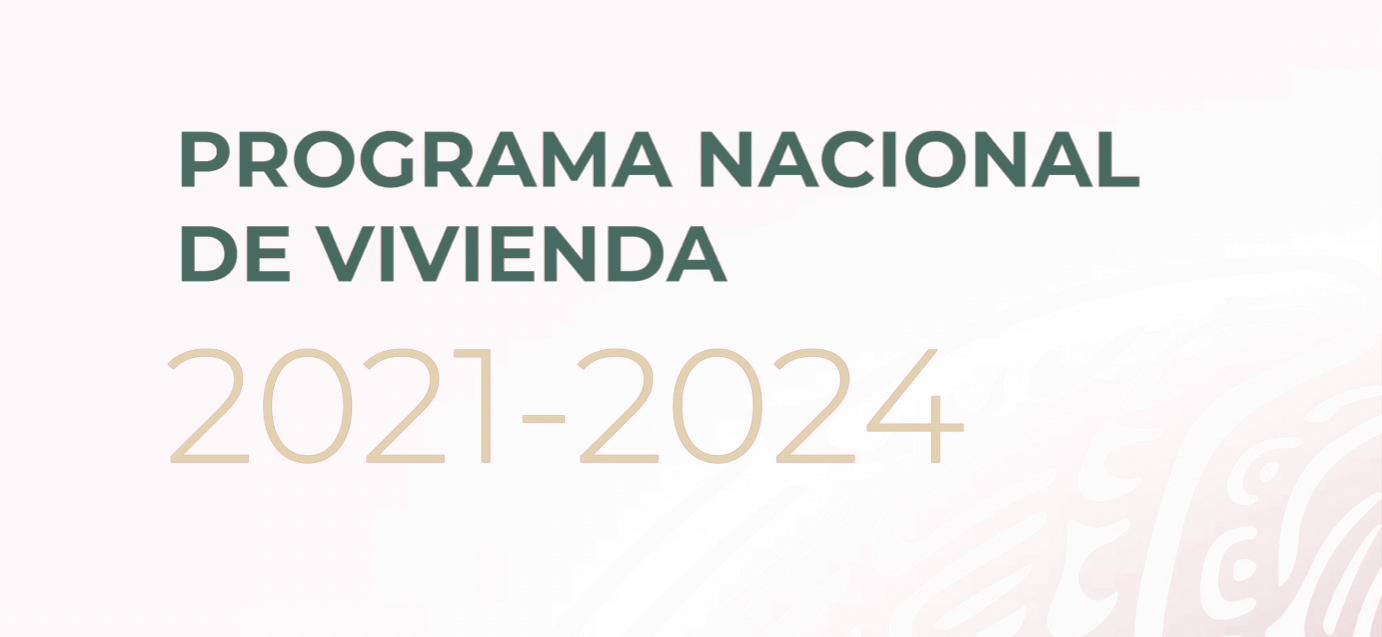
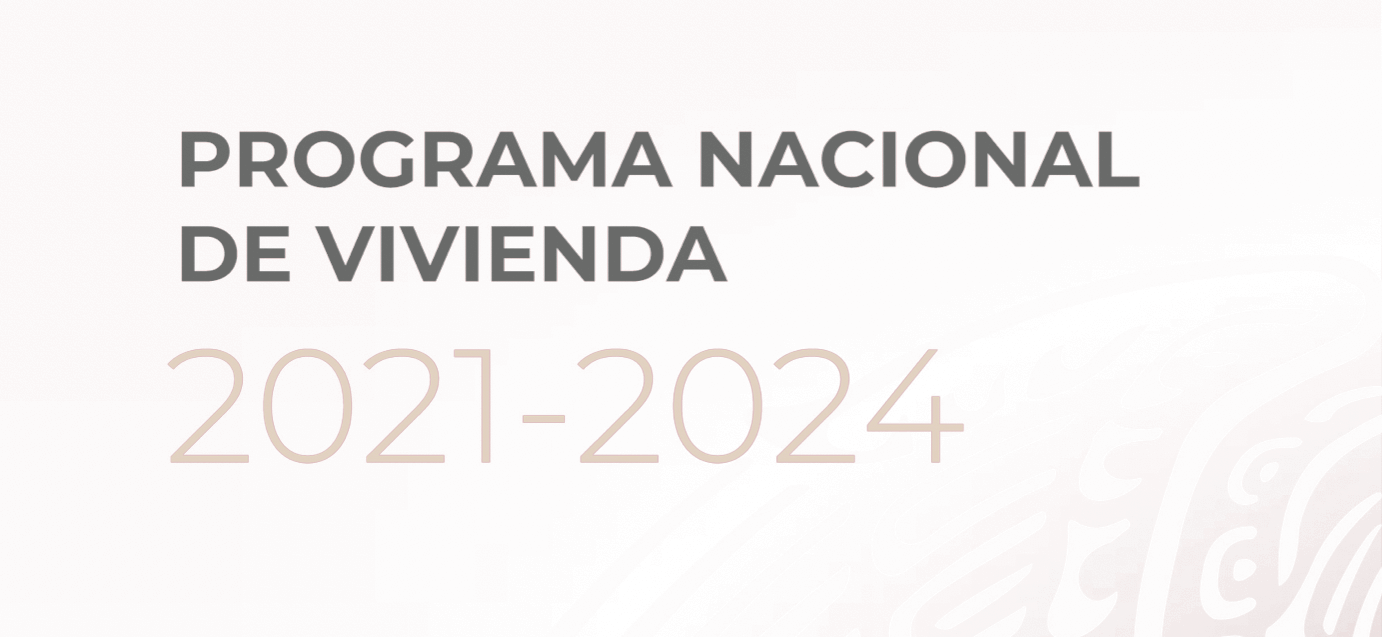
imagenes del bienestar 2

Changed region(s): [[0.1245, 0.2088, 0.8401, 0.2983], [0.1245, 0.3579, 0.5289, 0.4474]]

diff --git a/src/components/PNV/Paginas/ObjetivoPNV.tsx b/src/components/PNV/Paginas/ObjetivoPNV.tsx
@@ -137,41 +137,35 @@ export default function ObjetivoPNV(){
     return(
         <Fragment>
             <CardBanner isMobile={isMobile} subtitle={'El Programa Nacional de Vivienda es un programa especial derivado del Plan Nacional de Desarrollo 2019-2024.'} title={'¿Qué es el Programa Nacional de Vivienda?'} image={bienestar2} more1={'Incorpora los siete elementos de la vivienda adecuada establecidos por ONU-Hábitat: seguridad de la tenencia; disponibilidad de servicios, materiales, instalaciones e infraestructura; asequibilidad, habitabilidad, accesibilidad; ubicación y adecuación cultural. De esta manera, se busca que todos los actores impulsen estos criterios en los planes, reglas y programas de cada institución.'} more2={'La nueva política de vivienda coloca su énfasis en los grupos más vulnerables, y devolviéndoles el acceso a la vivienda adecuada como derecho; esto en consonancia con el objetivo 2. Política Social del Plan Nacional de Desarrollo 2021-2024. Lo anterior, tomando en cuenta que la vivienda ha dejado de ser un producto comercial escindido del territorio y se ha convertido, vista desde la política pública, en un espacio habitacional inherentemente vinculado al territorio.'} />
-            <div className={classes.root}>
-                <Grid container spacing={3}>
-                    <Grid item xs={12} sm={12} md={3} >
-                        <Paper elevation={0} className={classes.paper}>
-                            <h2>{"Programa Nacional de Vivienda"}</h2>
-                            <Paper elevation={3} className={classes.paper}>
-                                <a href={'https://www.gob.mx/cms/uploads/attachment/file/643644/PNV_28.05.2021.pdf'} target={"_blank"} rel={"noreferrer"}><img src={pnv2021} className={classes.image} alt={"Imagen"}/></a>
-                            </Paper>
-                        </Paper>
-                    </Grid>
-                    <Grid item xs={12} sm={12} md={9}>
-                        <Paper elevation={0} className={classes.paper}>
-                            <br/>
-                            <h3>{"5 objetivos prioritarios"}</h3>
-                            <h3>{"113 acciones puntuales"}</h3>
-                            <Paper elevation={3} className={classes.paper}>
-                                <ReactECharts option={sankey} />
-                            </Paper>
-                        </Paper>
-                    </Grid>
-                </Grid>
-
-                <Grid container spacing={2} alignItems={'center'} >
-                    <Grid item xs={12} sm={12} md={1}></Grid>
-                    {objetivos.map(card =>
-                        //@ts-ignore
-                        <Grid item xs={12} sm={12} md={card.size} key={card.obj}  >
-                            <Paper elevation={3} className={classes.paper}>
-                                <CardObjetivo title={card.title} content={card.obj} more={card.more} image={card.img}/>
-                            </Paper>
+            <Paper className={classes.paperContainer}>
+                <div className={classes.root}>
+                    <Grid container spacing={3}>
+                        <Grid item xs={12} sm={12} md={3} >
+                            <h2 className={classes.textColor}>{"Programa Nacional de Vivienda"}</h2>
+                            <a href={'https://www.gob.mx/cms/uploads/attachment/file/643644/PNV_28.05.2021.pdf'} target={"_blank"} rel={"noreferrer"}><img src={pnv2021} className={classes.image} alt={"Imagen"}/></a>
                         </Grid>
-                    )}
-                </Grid>
+                        <Grid item xs={12} sm={12} md={9}>
+                                <br/>
+                                <h3 className={classes.textColor}>{"5 objetivos prioritarios"}</h3>
+                                <h3 className={classes.textColor}>{"113 acciones puntuales"}</h3>
+                                <Paper elevation={3} className={classes.paper}>
+                                    <ReactECharts option={sankey} />
+                                </Paper>
+                        </Grid>
+                    </Grid>
+
+                    <Grid container spacing={2} alignItems={'center'} >
+                        <Grid item xs={12} sm={12} md={1}></Grid>
+                        {objetivos.map(card =>
+                            //@ts-ignore
+                            <Grid item xs={12} sm={12} md={card.size} key={card.obj}  >
+                                    <CardObjetivo title={card.title} content={card.obj} more={card.more} image={card.img}/>
+                            </Grid>
+                        )}
+                    </Grid>
                 <br/><br/><br/>
             </div>
+            </Paper>
         </Fragment>
 
     )

diff --git a/src/components/PNV/Paginas/ViviendaAdecuada.tsx b/src/components/PNV/Paginas/ViviendaAdecuada.tsx
@@ -205,18 +205,19 @@ export default function ViviendaAdecuada(props:ViviendaProps){
     }
 
     const GridVivienda =
-    <Paper elevation={0} className={classes.paperImage}>
-        <Paper elevation={3} className={classes.paper}>
-            <h3>{"Vivienda Adecuada"}</h3>
-            <h5>{"Indicadores complementarios"}</h5>
-            <RefreshIcon fontSize={'large'} onClick={() => setIndicador([0,0])} />
-        </Paper>
-        <br/>
-        <br/>
-        {indicador[0] === 0 ? <img src={vivienda} className={classes.image} alt={"vivienda"} />
-            : indicador[0] === 10? <TextoVivienda image={elementos[indicador[1]].image} title={elementos[indicador[1]].title} obj={elementos[indicador[1]].num} more={elementos[indicador[1]].more}/>
-                : <IndicadorVivienda indicador={indicadores[indicador[0]-1]} indicadorIndex={indicador[1]}/>}
-    </Paper>
+        <Fragment>
+            <Paper elevation={3} className={classes.paperImage}>
+                <h3 className={classes.textColor}>{"Vivienda Adecuada"}</h3>
+                <h5 className={classes.textColor}>{"Indicadores complementarios"}</h5>
+                <RefreshIcon className={classes.textColor} fontSize={'large'} onClick={() => setIndicador([0,0])} />
+            </Paper>
+            <br/>
+            <br/>
+            {indicador[0] === 0 ? <img src={vivienda} className={classes.image} alt={"vivienda"} />
+                : indicador[0] === 10? <TextoVivienda image={elementos[indicador[1]].image} title={elementos[indicador[1]].title} obj={elementos[indicador[1]].num} more={elementos[indicador[1]].more}/>
+                    : <IndicadorVivienda indicador={indicadores[indicador[0]-1]} indicadorIndex={indicador[1]}/>}
+        </Fragment>
+
 
 
     return(
@@ -227,7 +228,8 @@ export default function ViviendaAdecuada(props:ViviendaProps){
                         more1={'La vivienda adecuada debe proveer más que cuatro paredes y un techo. Se deben cumplir una serie de condiciones particulares antes de considerarse como Vivienda adecuada.'}
                         more2={'La caracterización de los retos específicos que tiene la vivienda en México se basa en los siete elementos de una vivienda adecuada definidos por la Organización de las Naciones Unidas (ONU): seguridad de la tenencia; disponibilidad de servicios, materiales, instalaciones e infraestructura; asequibilidad; habitabilidad; accesibilidad; ubicación y adecuación cultural.'}
                         isMobile={isMobile}/>
-            <div className={classes.root}>
+            <Paper className={classes.paperContainer2}>
+                <div className={classes.root}>
                 <Grid container spacing={2}  >
                     {isMobile ?
                         <Grid container spacing={2}  >
@@ -280,6 +282,7 @@ export default function ViviendaAdecuada(props:ViviendaProps){
                 </Grid>
                 <br/><br/><br/>
             </div>
+            </Paper>
         </Fragment>
     )
 }

diff --git a/src/utils/Style.tsx b/src/utils/Style.tsx
@@ -1,5 +1,10 @@
 import {createStyles, makeStyles, Theme} from "@material-ui/core/styles";
 import red from "@material-ui/core/colors/red";
+import {colorBrewer} from "./colorBrewer";
+
+
+import fondo from "../assets/images/bienestar/fondo2.png";
+import fondo2 from "../assets/images/bienestar/fondo.png";
 
 export const useStyles = makeStyles((theme:Theme) =>
     createStyles({
@@ -10,7 +15,6 @@ export const useStyles = makeStyles((theme:Theme) =>
             padding: theme.spacing(2),
             textAlign:"center",
             color: theme.palette.text.secondary,
-            backgroundColor: theme.palette.background.default,
             fontFamily:'Montserrat',
 
         },
@@ -25,7 +29,7 @@ export const useStyles = makeStyles((theme:Theme) =>
             padding: theme.spacing(1),
             textAlign:"center",
             color: theme.palette.text.secondary,
-            backgroundColor: theme.palette.background.default,
+            backgroundImage:'url('+fondo2+')',
 
         },
         image:{
@@ -68,7 +72,12 @@ export const useStyles = makeStyles((theme:Theme) =>
         },
         text:{
             fontSize:10,
-            color:theme.palette.text.secondary,
+            color:'white',
+            fontFamily:'Montserrat',
+        },
+        textTitle:{
+            fontSize:14,
+            color:'white',
             fontFamily:'Montserrat',
         },
         imageCard:{
@@ -155,11 +164,35 @@ export const useStyles = makeStyles((theme:Theme) =>
                 display: 'block',
                 position: 'absolute',
                 width: '100%',
-                height: '65%',
+                height: '100%',
                 bottom: 0,
                 zIndex: 1,
-                background: 'linear-gradient(to top, #000, rgba(0,0,0,0.05))',
+                background: 'linear-gradient(to top left, rgba(0,0,0,0.8) 55%, rgba(0,0,0,0) 50%)'
             },
         },
+        imageBanner:{
+            width:'20%',
+        },
+        titlePNV:{
+            fontSize: 21,
+            color: colorBrewer.T4Colors[0],
+            fontFamily:'Montserrat',
+        },
+        subtitlePNV:{
+            fontSize: 18,
+            color: colorBrewer.T4Colors[1],
+            fontFamily:'Montserrat',
+        },
+        paperContainer:{
+            backgroundImage:'url('+fondo+')',
+        },
+        paperContainer2:{
+            backgroundImage:'url('+fondo2+')',
+        },
+        textColor:{
+            textAlign:"center",
+            color: 'white',
+            fontFamily:'Montserrat',
+        }
     })
 );

diff --git a/src/components/PNV/MUIComponents/CardBanner.tsx b/src/components/PNV/MUIComponents/CardBanner.tsx
@@ -1,7 +1,7 @@
 import React, { Fragment } from 'react';
 import Card from '@material-ui/core/Card';
 import CardMedia from '@material-ui/core/CardMedia';
-import {Box} from "@material-ui/core";
+import {Box, Typography} from "@material-ui/core";
 import {
     Info,
     InfoCaption,
@@ -12,7 +12,8 @@ import { useGalaxyInfoStyles } from '@mui-treasury/styles/info/galaxy';
 // @ts-ignore
 import { useCoverCardMediaStyles } from '@mui-treasury/styles/cardMedia/cover';
 import {useStyles} from "../../../utils/Style";
-
+import pnv from "../../../assets/images/bienestar/pnv.png"
+import Grid from "@material-ui/core/Grid";
 
 interface CardProps{
     subtitle: string,
@@ -29,18 +30,23 @@ export default function CardBanner(props:CardProps) {
 
     return (
         <Card className={props.isMobile ? classes.cardBienestarMobile: classes.cardBienestar}>
-            <CardMedia
-                classes={mediaStyles}
-                image={props.image}
-            />
-            <Box py={3} px={2} className={classes.contentCard}>
-                <Info useStyles={useGalaxyInfoStyles}>
-                    <InfoTitle>{props.title}</InfoTitle>
-                    <br/>
-                    {props.isMobile ?<></> : <Fragment><InfoSubtitle>{props.subtitle}</InfoSubtitle><br/></Fragment>}
-                    <InfoCaption>{props.more1}</InfoCaption>
-                    <InfoCaption>{props.more2}</InfoCaption>
-                </Info>
+            <CardMedia classes={mediaStyles} image={props.image}/>
+            <Box py={5} px={2} className={classes.contentCard}>
+                <Grid container >
+                    <Grid md={7}></Grid>
+                    <Grid md={5}>
+                        <Info useStyles={useGalaxyInfoStyles}>
+                            <InfoTitle>{props.title}</InfoTitle>
+                            <br/>
+                            {props.isMobile ?<></> : <Fragment><Typography className={classes.textTitle}>{props.subtitle}</Typography><br/></Fragment>}
+                            <Typography className={classes.text}>{props.more1}</Typography>
+                            <br/>
+                            <Typography className={classes.text}>{props.more2}</Typography>
+                        </Info>
+                    </Grid>
+
+                </Grid>
+
             </Box>
         </Card>
     )

diff --git a/src/utils/colorBrewer.tsx b/src/utils/colorBrewer.tsx
@@ -308,7 +308,7 @@ export const  colorBrewer = {
     Objetivos: ['#dd7671', '#f5ce85', '#a485c2', '#e3a277', '#95ce9c'],
     StateColor: ['#e0af1b', '#a7a7a7', '#158c49', '#db1f1f'],
     ViviendaColor: ['#906723', '#a3e1cc', '#f68175', '#fbcb4a', '#858e84', '#efe6d0'],
-    T4Colors: ['#13322b'],
+    T4Colors: ['#13322b','#b9975f'],
     T4Green: ['#164f2f','#3d6049','#536e5c','#657b6c','#74867a','#819186','#8d9b91','#98a49c','#a2aca5','#acb5af','#b5bdb7']
 
 }
